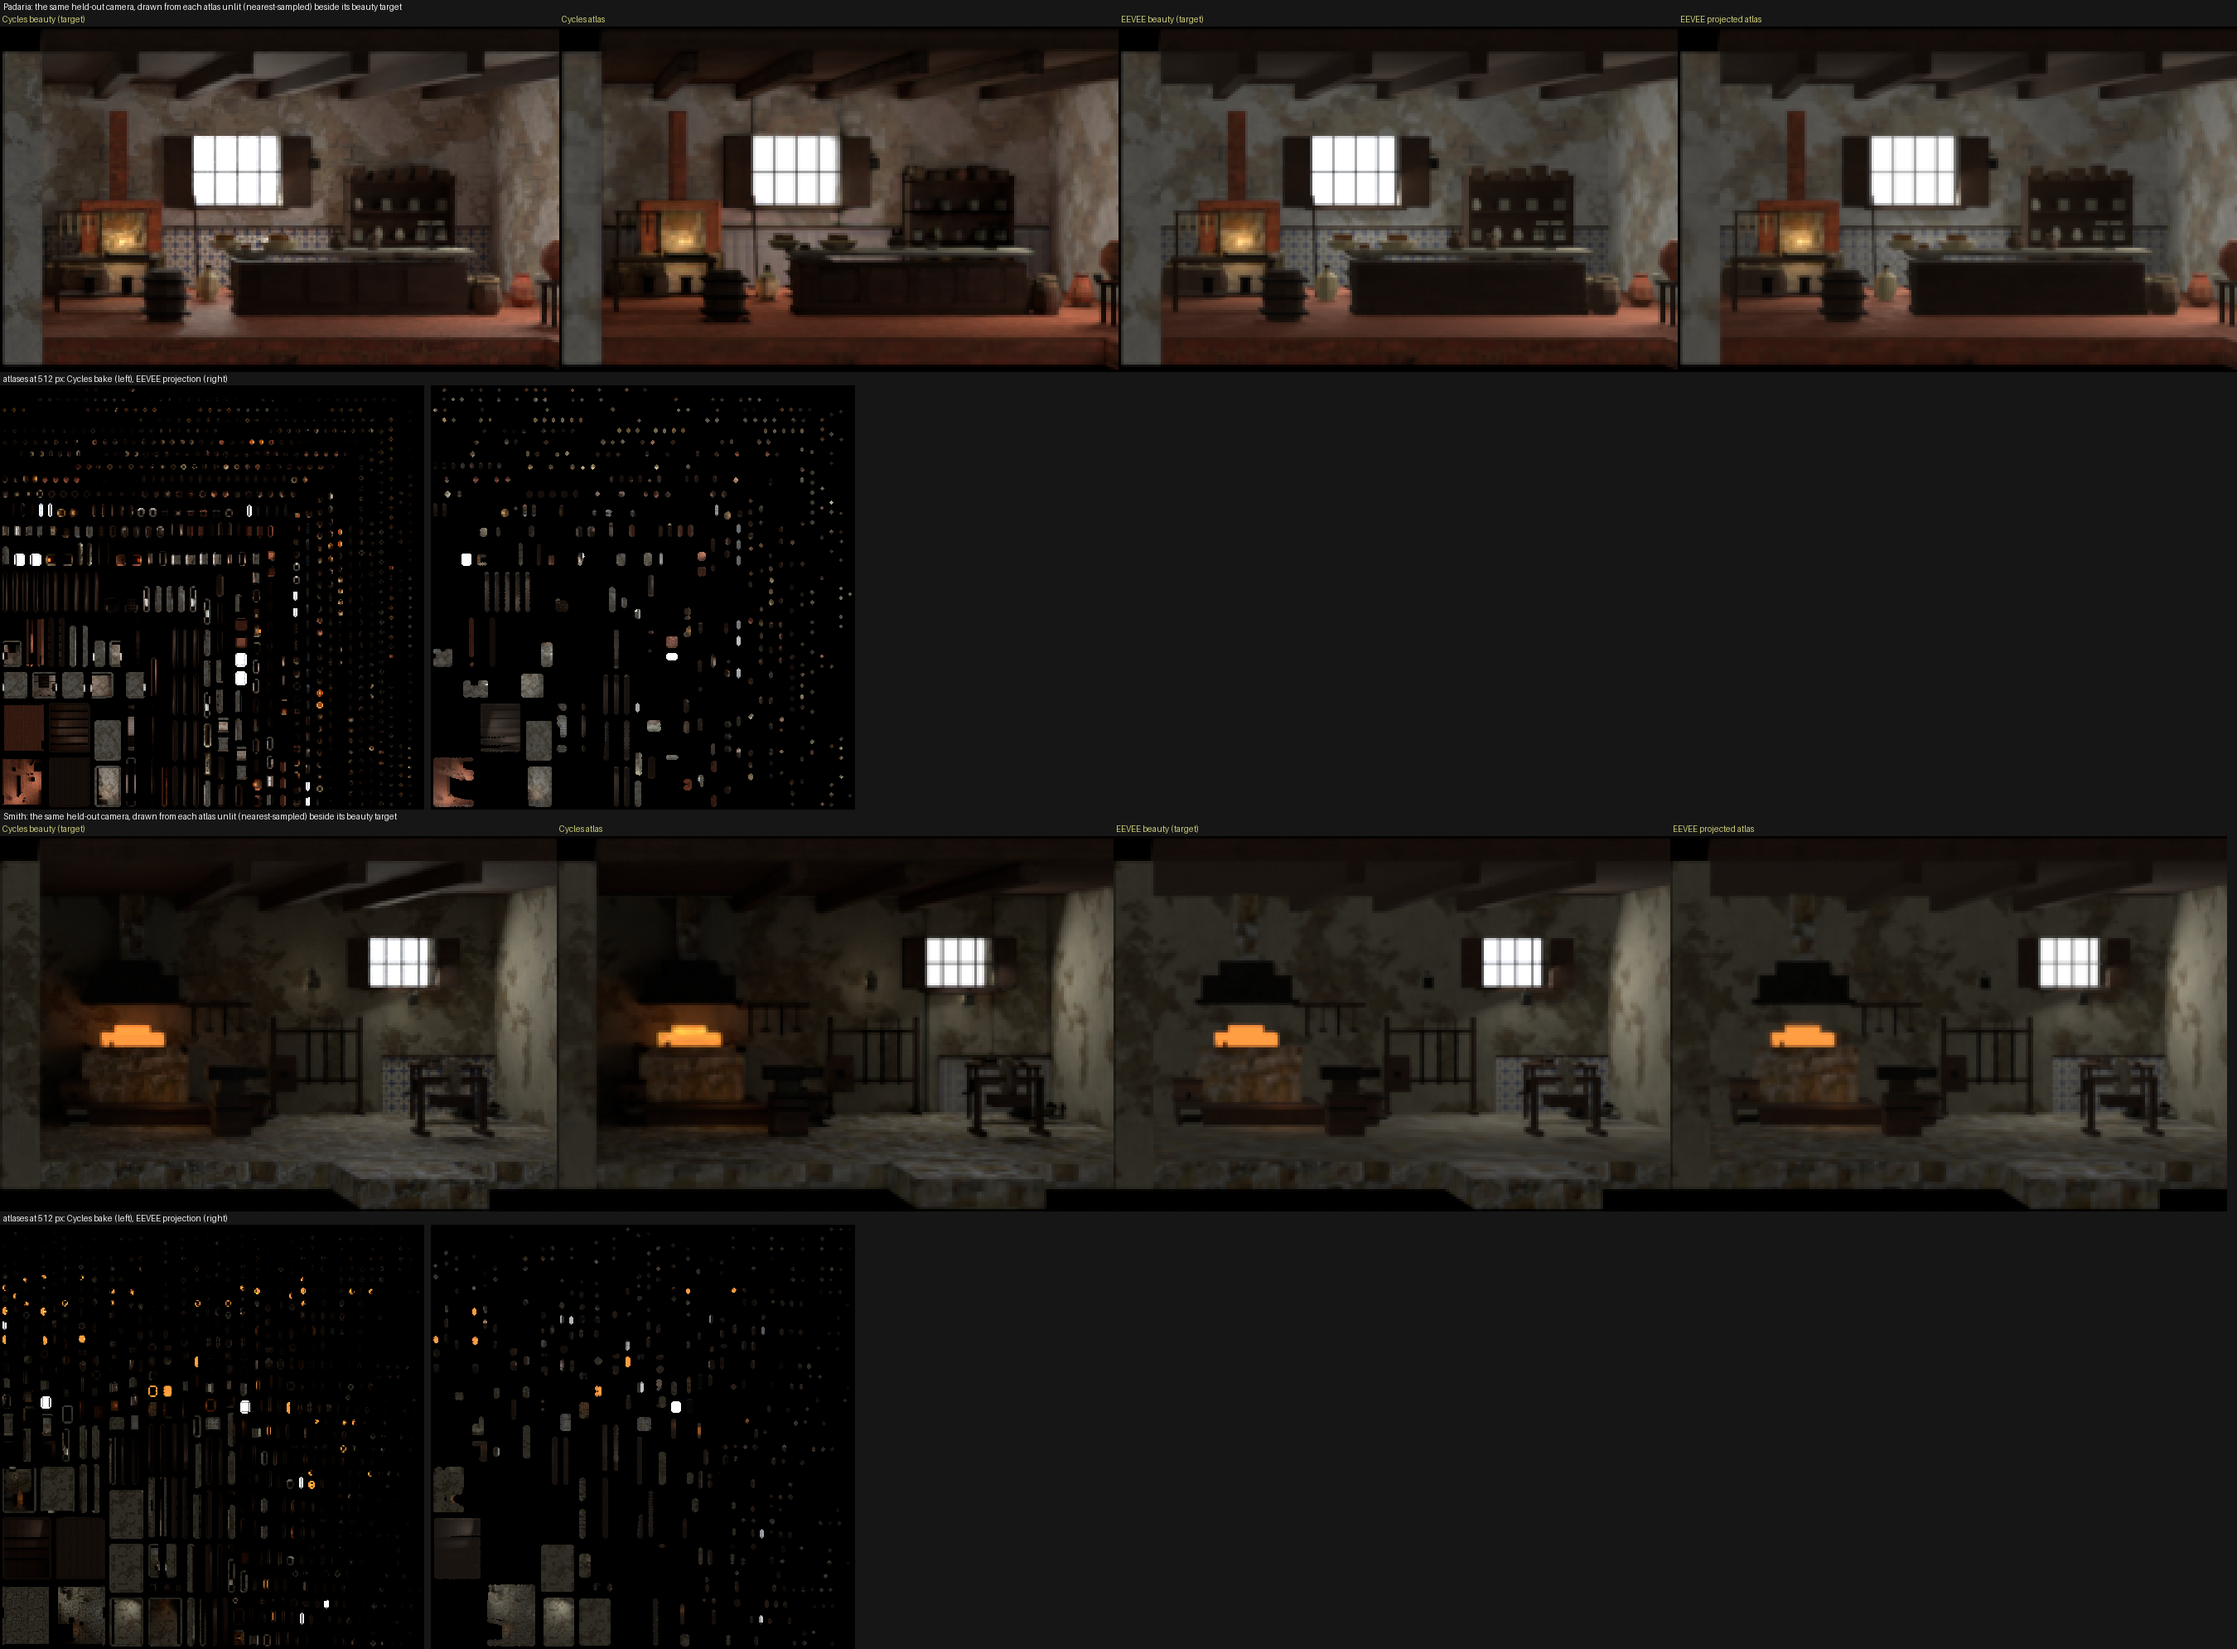
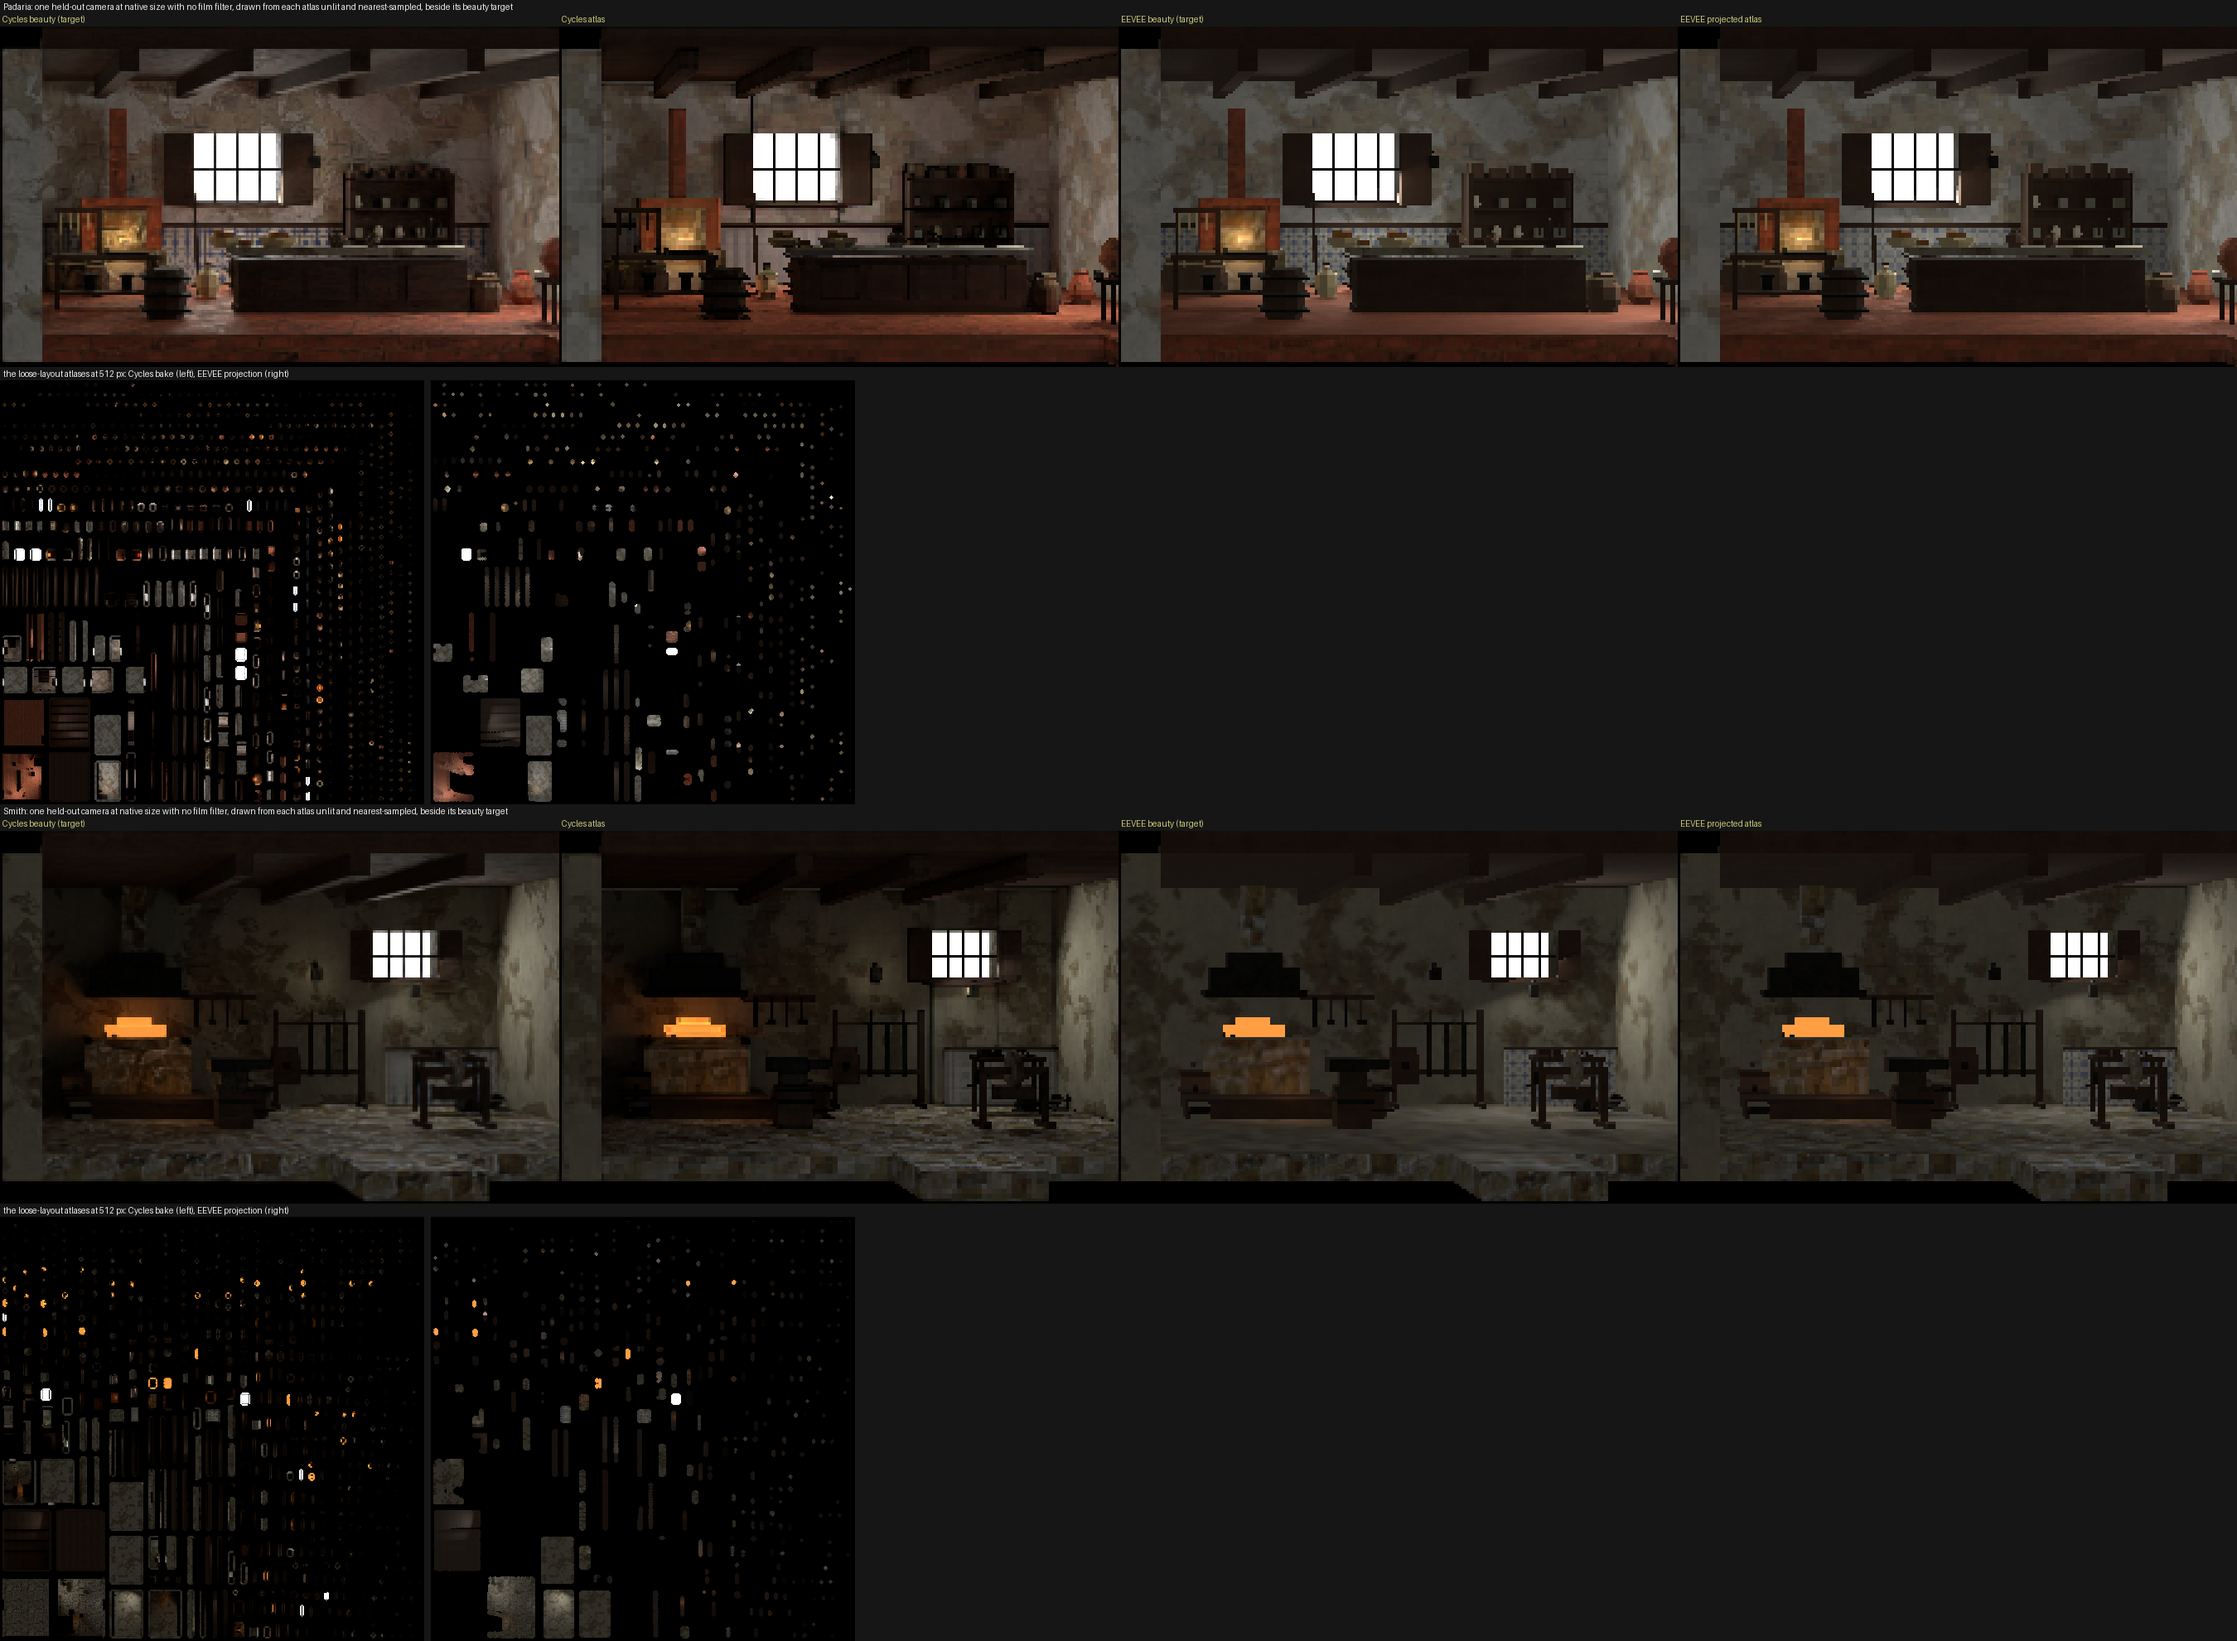
Render the atlas and placement studies with no film filter, as the game draws them
The check frames and the beauty pass that feeds the EEVEE atlas used Film > Filter
Size 1.5 (and Cycles' default filter width), blurring every frame by about a pixel;
Laplacian variance 511 against 2,755 at 0 on a Padaria frame. The game rasterises at
native pixels and samples nearest. Every render that stands for an in-game frame now
uses filter 0 (Cycles 0.01) at native size with the lighting samples still accumulated.

Re-measured under that setting: the layout shows in the crops, not in a pixel-difference
against the beauty target (the earlier claim that layout improved that error was a
filter artefact), and the Cycles atlas under the loose layout loses the azulejo dado
outright while packed and view keep it. Report, sheets and numbers updated.

diff --git a/tools/blender/study_eevee_atlas.py b/tools/blender/study_eevee_atlas.py
@@ -49,6 +49,21 @@ import thestra_camera  # noqa: E402
 
 CAMERA_RECORD = ROOT / "tools" / "blender" / "fixtures" / "town_sideview_camera.json"
 VIEW_WIDTH = 426          # the wide view; 256 is the classic one inside it
+
+# Every render here that stands for what a player sees uses NO reconstruction filter. The game
+# rasterises at native pixels and samples the atlas nearest, so Film > Filter Size (EEVEE's default
+# is 1.5 px, Cycles' filter width the same) blurs a frame by about a pixel and makes the atlas look
+# far softer than it is: measured on a Padaria frame, Laplacian variance 511 at 1.5 against 2,755 at
+# 0. The lighting samples still accumulate (64), so the frame is converged, just not blurred.
+FILM_FILTER = 0.0
+TAA_SAMPLES = 64
+CYCLES_FILTER_WIDTH = 0.01   # Cycles' minimum; it will not take 0
+
+
+def crisp(scene):
+    scene.eevee.taa_render_samples = TAA_SAMPLES
+    scene.render.filter_size = FILM_FILTER
+    scene.cycles.filter_width = CYCLES_FILTER_WIDTH
 VIEW_HEIGHT = 240
 
 
@@ -227,8 +242,7 @@ def main():
         place_camera(scene, float(lane_y))
         # Beauty: the room as EEVEE lights it.
         bpy.context.view_layer.material_override = None
-        scene.eevee.taa_render_samples = 64
-        scene.render.filter_size = 1.5
+        crisp(scene)
         set_raw_float_output(scene, out / "tmp_beauty.exr", args.supersample)
         beauty = render_exr(scene, out / "tmp_beauty.exr")
         # UV: every pixel names its own texel. No antialiasing, no filter, no view transform.
@@ -279,8 +293,7 @@ def main():
     scene.render.film_transparent = False
     scene.render.resolution_percentage = 100
     scene.view_settings.view_transform = "Standard"
-    scene.eevee.taa_render_samples = 64
-    scene.render.filter_size = 1.5
+    crisp(scene)
     atlases = {"eevee": eevee_atlas}
     if args.cycles_atlas:
         cycles_atlas = bpy.data.images.load(str(args.cycles_atlas.resolve()))

diff --git a/tools/blender/study_ground_cover_placement.py b/tools/blender/study_ground_cover_placement.py
@@ -65,6 +65,9 @@ def prepare_render(scene):
         if obj.name.startswith(SCAFFOLD_PREFIXES):
             obj.hide_render = True
     scene.render.engine = "BLENDER_EEVEE"
+    # No reconstruction filter: the tufts are drawn at native pixels, nearest-sampled, in the
+    # game. Film > Filter Size (1.5 px by default) would blur a 9 px tuft into a smear.
+    scene.render.filter_size = 0.0
     scene.render.resolution_x, scene.render.resolution_y = PLATE
     scene.render.resolution_percentage = 100
     scene.render.image_settings.file_format = "PNG"

diff --git a/docs/reports/eevee-atlas-and-grass-placement-2026-09-30.md b/docs/reports/eevee-atlas-and-grass-placement-2026-09-30.md
@@ -13,6 +13,21 @@ laid out with `smart_project(island_margin=0.02)`, which the shops report had al
 built the atlas study on that layout without saying so; the owner caught it. The layout, not the
 Blender version, is where the atlas is wasting resolution (section 4).
 
+## 1b. A second correction: the film filter
+
+Every frame in the first version of this study was rendered with Film > Filter Size at 1.5 px (the
+EEVEE default, which I also set explicitly on the beauty pass that feeds the EEVEE atlas and on
+the check frames; Cycles' filter width was likewise at its default). The game rasterises at native
+pixels and samples the atlas nearest, so that blurred every frame by about a pixel and made the
+atlases look far softer than they are. Measured on one Padaria frame, Laplacian variance is 511 at
+1.5 and 2,755 at 0. The owner spotted it from the images.
+
+Every render here that stands for what a player sees now uses no reconstruction filter (EEVEE
+`filter_size` 0, Cycles `filter_width` 0.01, its minimum) at native size, with the lighting samples
+still accumulated (64) so the frame is converged, just not blurred. That covers the beauty pass
+that feeds the atlas, the check frames and the placement study. The numbers in sections 4 and 5 are
+re-measured; several claims from the first version did not survive and are corrected below.
+
 ## 2. Placement study for #1270 (owner decision)
 
 `study_ground_cover_placement.py` puts the `SR_GroundCover` modifier on a scratch terrain guide
@@ -39,7 +54,8 @@ of the cover the menu hides. A and C put it where it stays visible; B and D put 
 band; E splits the difference. A tuft is 0.34 m, about 9 px at this camera, so at 375 tufts the
 cover is subtle at 1x whichever layout is chosen.
 
-Placement is not decided. Nothing is adopted into the source `.blend`.
+The sheets were re-rendered with no film filter after the correction above; the tuft counts are
+unchanged. Placement is not decided. Nothing is adopted into the source `.blend`.
 
 ## 3. Cycles out of previews
 
@@ -83,11 +99,20 @@ frame, no antialiasing), scales each island to that demand blended with world-un
 (`view_bias`, default 0.85), never below a floor (4% of the mean visible density), and packs. At
 512 it gives the Padaria what `packed` gives at 1024, from a quarter of the texels.
 
-Cycles agrees. Re-baking the Padaria with the tight layouts brings the Cycles atlas closer to its
-own Cycles beauty target: mean abs difference over the lit pixels 8.9 (loose) to 6.6 (packed) and
-6.3 (view), of 255.
+Cycles agrees, and the picture is clearer with the filter off. Re-baking the Padaria with the tight
+layouts brings the Cycles atlas closer to its own Cycles beauty target: mean abs difference over
+the lit pixels 11.2 (loose), 9.0 (packed), 8.7 (view), of 255. More to the point, look at it:
+`cycles_layouts_sheet.png` draws the Cycles atlas the way the game does. Under the loose layout the
+azulejo dado on the Padaria's counter wall is lost outright (a grey smear); under packed and view
+the tile pattern survives. That is the "azulejo smears in the bake" defect the shops report named,
+and it is a layout defect, not a Blender one.
 
-`layouts_sheet.png` shows the four atlases and the same 5x crop from each.
+An honest limit: in pixel-difference terms an EEVEE atlas is about as close to its EEVEE target
+under every layout (2.6, 2.7, 3.1 and 2.6 for loose, packed, view 1024 and view 512 on the
+Padaria), because a difference of 2-3/255 is dominated by sampling phase at high-frequency detail
+rather than by texel count. The layout shows in the crops (`layouts_sheet.png`), not in that
+number, and my first version's claim that the layout "improved the error against the target"
+(2.07 to 1.69) was an artefact of the filter blur.
 
 What changed in the code: `export_room_environment.py` gains `--atlas-layout {loose,packed,view}`
 with **`packed` as the default** (`loose` stays only to reproduce a shipped package, and
@@ -111,17 +136,19 @@ compared with the beauty target.
 |---|---:|---:|
 | time, Padaria (1024, loose layout) | 229 s | 8-11 s |
 | time, Padaria (1024, packed / view) | 296 s / 340 s | about 11 s |
-| atlas vs its own beauty target, loose layout, lit-pixel mean of 255 | 8.9 | 2.1 |
-| same, packed / view | 6.6 / 6.3 | 1.7 / 1.7 |
+| atlas vs its own beauty target, loose layout, lit-pixel mean of 255 | 11.2 | 2.7 |
+| same, packed / view | 9.0 / 8.7 | 2.7 / 3.1 |
+| same, smith, loose layout | 5.9 | 2.1 |
 
 Reading it:
 
-- The EEVEE atlas reproduces the EEVEE look to about 2/255 on lit pixels, from cameras it never
-  baked, including the lane ends. The Cycles bake is further from the Cycles look (6-9) because a
+- The EEVEE atlas reproduces the EEVEE look to about 2-3/255 on lit pixels, from cameras it never
+  baked, including the lane ends. The Cycles bake is further from the Cycles look (6-11) because a
   selected-to-active bake of a fixed view is not the same computation as rendering that view.
 - The EEVEE atlas is not closer to the Cycles look than the plates are: EEVEE beauty against
-  Cycles beauty is already about 9-11 apart, and the EEVEE atlas against the Cycles beauty is the
-  same. The atlas step adds nothing on top of the engine difference measured for the plates.
+  Cycles beauty is already about 10-11 apart (10.6 Padaria, 10.0 smith), and the EEVEE atlas
+  against the Cycles atlas is 10-11.5. The atlas step adds nothing on top of the engine
+  difference measured for the plates.
   This is the coherence point: a Cycles-baked room next to an EEVEE plate is off by that engine
   gap; an EEVEE atlas next to an EEVEE plate is not.
 - It only fills what the bake cameras saw, about 20-30% of the island texels before dilution
